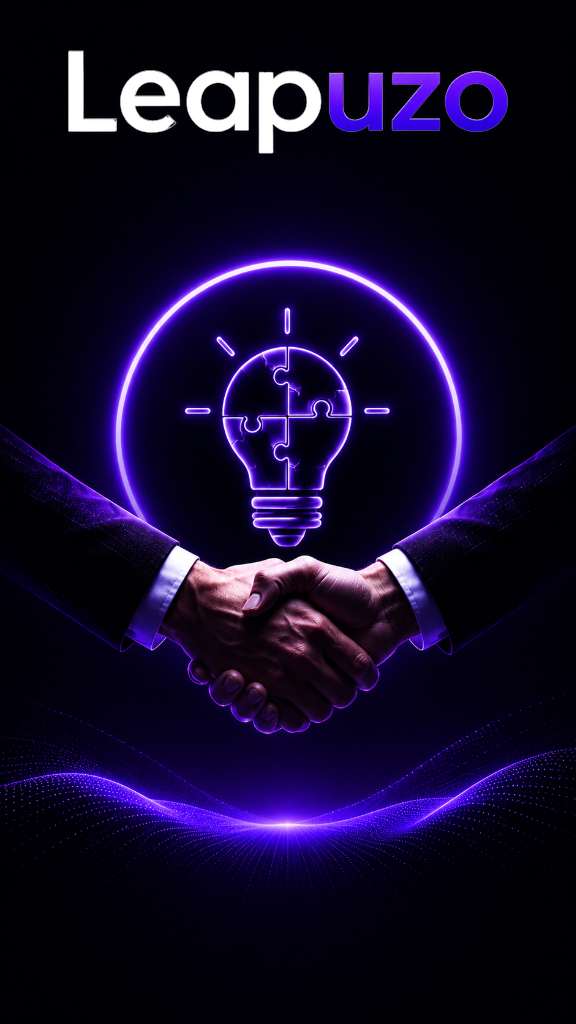
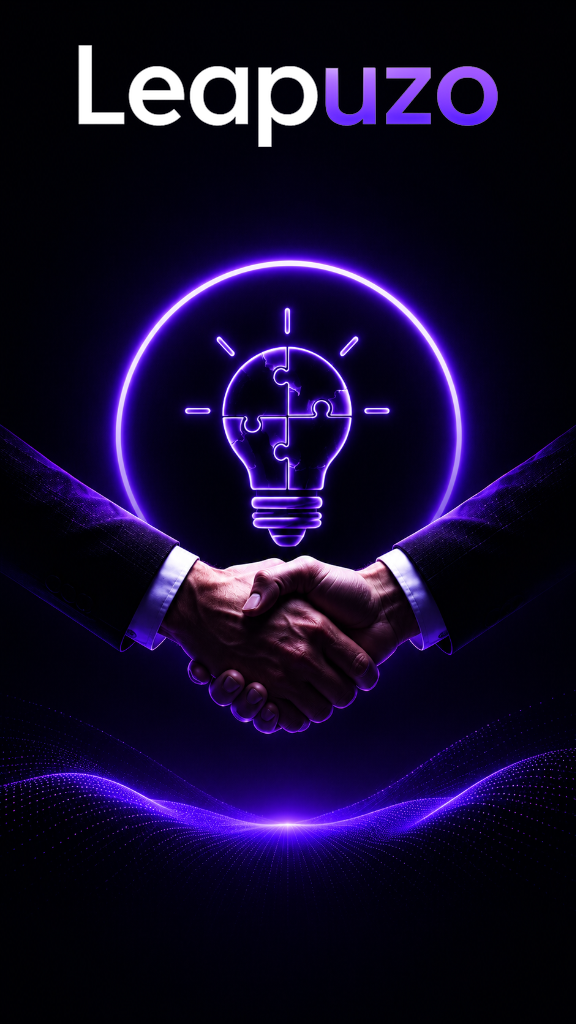
k

Changed region(s): [[0.0938, 0.0312, 0.9062, 0.1562]]

diff --git a/clientdetails/index.html b/clientdetails/index.html
@@ -1268,6 +1268,52 @@
   }
 }
 </style></style>
+<style>/* ------------------------------------------------------------------------
+   OFFICIAL MOBILE HERO SECTION (NEW ARTWORK + NEW LOGO COMPOSITED)
+   ------------------------------------------------------------------------ */
+@media (max-width: 809.98px) {
+  /* Hide extra redundant logo wrappers since the logo is composited directly onto top-middle of artwork */
+  .leapuzo-hero-mobile-logo-wrapper {
+    display: none !important;
+  }
+
+  /* Mobile Hero Container Background Artwork */
+  .framer-wr2ci8,
+  [data-framer-name="About"],
+  .framer-9ebtwc,
+  [data-framer-name="Hero"] {
+    width: 100% !important;
+    max-width: 100% !important;
+    min-height: 100vh !important;
+    height: auto !important;
+    padding: 70px 16px 30px 16px !important;
+    box-sizing: border-box !important;
+    position: relative !important;
+    display: flex !important;
+    flex-direction: column !important;
+    align-items: center !important;
+    justify-content: center !important;
+    background-image: url('mobile_hero_bg.png?v=4') !important;
+    background-size: cover !important;
+    background-position: center top !important;
+    background-repeat: no-repeat !important;
+  }
+
+  /* Force hero foreground images to display mobile_hero_bg.png?v=4 */
+  [data-framer-name="Hero"] img,
+  .framer-1u6a2tv img,
+  .framer-1emrrf1 img,
+  .framer-wr2ci8 img,
+  .framer-9ebtwc img {
+    content: url('mobile_hero_bg.png?v=4') !important;
+    object-fit: cover !important;
+    object-position: center top !important;
+    width: 100% !important;
+    height: 100% !important;
+    display: block !important;
+  }
+}
+</style></style>
 </head>
 <body>
 
